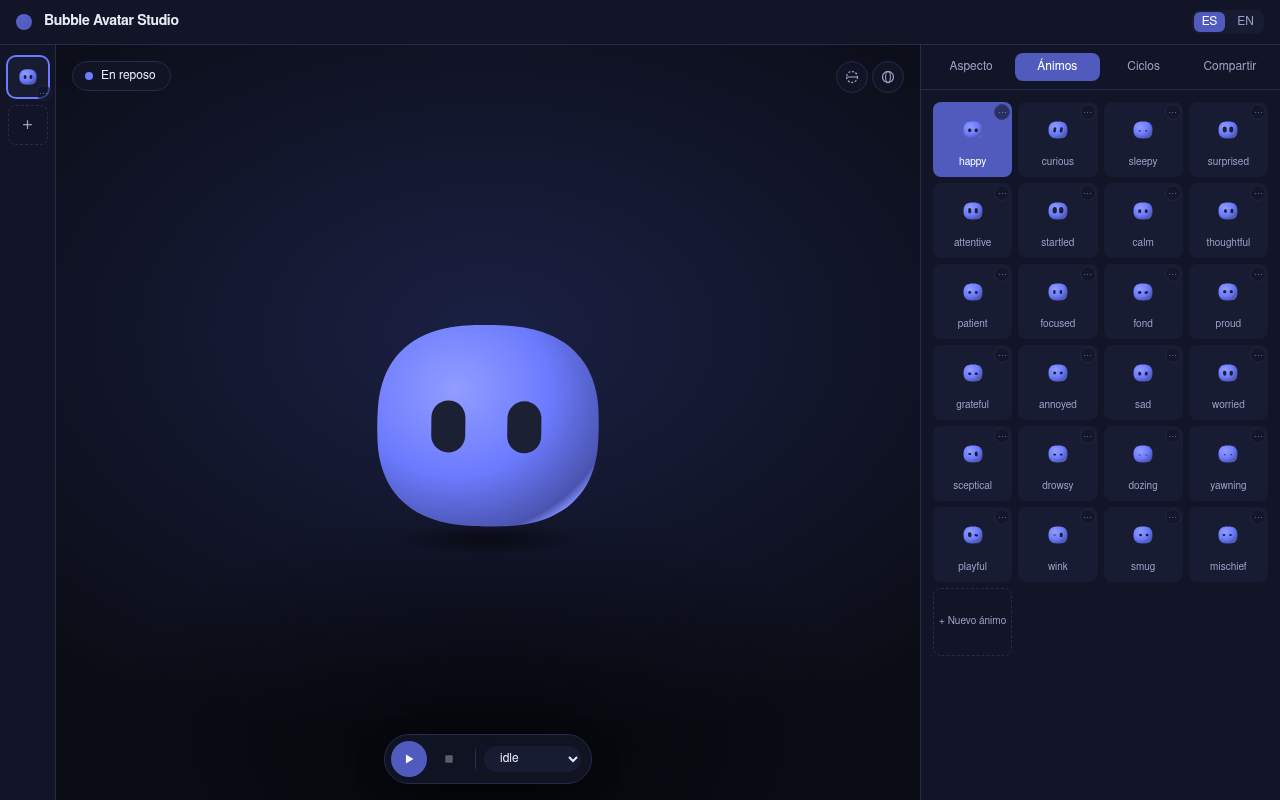
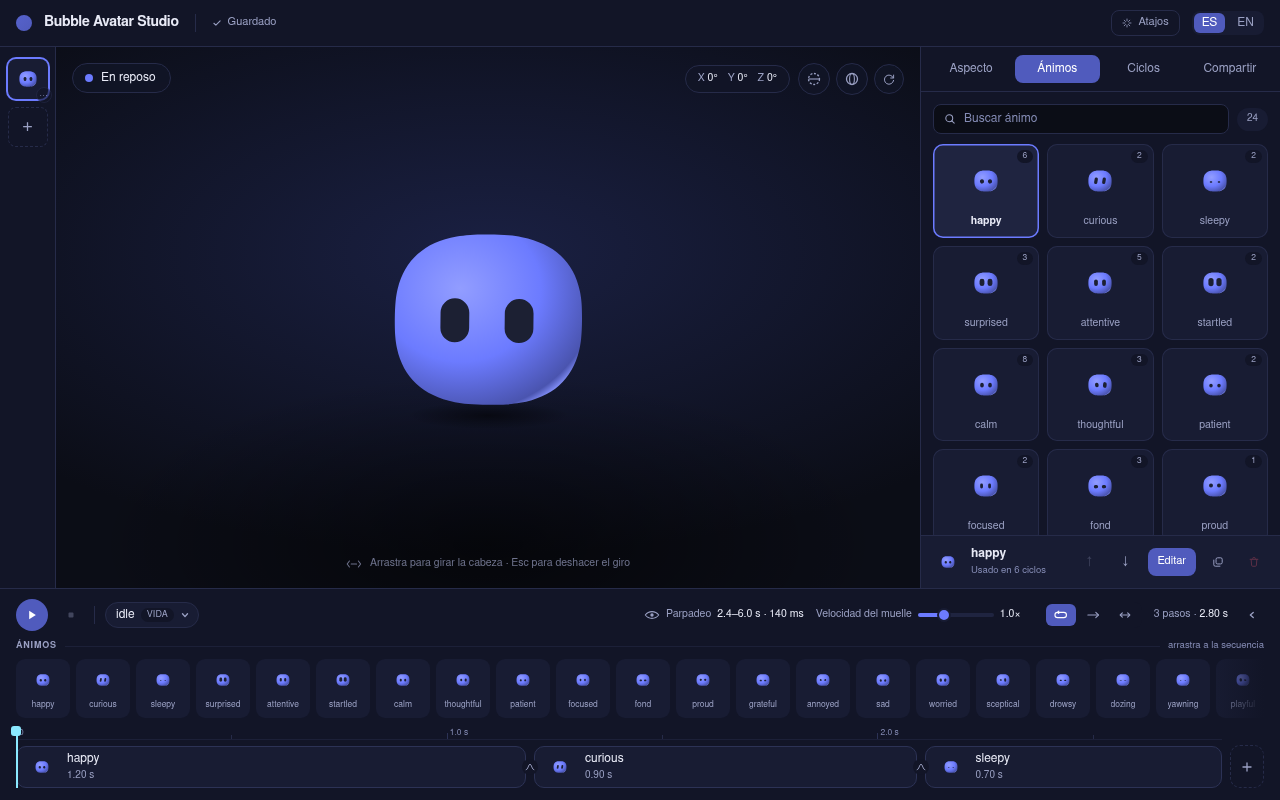
Re-derive what the docs claim, and re-archive the frames
The smoke suite drove the shape the redesign replaced: the dock's play
button, the mood kebab, a reset inside the gizmo pad. It drives the track,
the selection bar and the cluster now, and gained two scenarios jsdom cannot
decide. The playing-loop case asserts the **playhead has moved** — jsdom can
prove the writer runs, not that the engine's frames arrive, and a sabotaged
`publish` is the only thing in this whole pass that only e2e catches. The
new one checks 1024×720, because the track's first row is a lot of controls
in a line and a narrow window is where it breaks first; the archived frame
shows it holding.

CLAUDE.md had two entries that the redesign made wrong — the overlay rule
still named a transport dock, and the transport was described as rendered by
one — and is missing the two mechanics a newcomer would otherwise have to
infer: the clock that keeps the playhead off the React path in both
directions, and the fact that the timeline has two totals which coincide
only outside pingpong.

Numbers re-derived rather than edited: 600 tests / 36 files, 11 e2e
scenarios, 343.42 kB JS / 37.86 kB CSS. Goldens byte-unchanged — confirmed
by diffing src/render/ and src/domain/geometry/ against the branch point,
which is empty.

diff --git a/e2e/smoke.spec.ts b/e2e/smoke.spec.ts
@@ -22,10 +22,15 @@ test("boot: studio shell renders with a starter bubble", async ({ page }) => {
   ).toBeVisible();
   await expect(page.getByLabel("bubble stage")).toBeVisible();
   await expect(page.getByRole("tab", { name: "Aspecto" })).toBeVisible();
-  await expect(page.getByRole("button", { name: "Nueva burbuja" })).toBeVisible();
-  // Transport lives on the stage dock now (docs/05 §1).
-  await expect(page.getByRole("button", { name: "Reproducir" })).toBeVisible();
-  await expect(page.getByRole("status")).toContainText("En reposo");
+  await expect(
+    page.getByRole("button", { name: "Nueva burbuja" }),
+  ).toBeVisible();
+  // Transport lives on the full-width track below all three columns (FR-6.6).
+  const track = page.getByRole("region", { name: "Pista" });
+  await expect(track.getByRole("button", { name: "Reproducir" })).toBeVisible();
+  await expect(page.getByTestId("stage-status")).toContainText("En reposo");
+  // FR-6.7: the sequence is on it, one chip per step.
+  await expect(track.getByTestId("step-chip").first()).toBeVisible();
   await shoot(page, "boot");
 });
 
@@ -39,13 +44,13 @@ test("panels: look, moods, loops and share tabs expose their controls", async ({
   await shoot(page, "panel-look");
 
   await page.getByRole("tab", { name: "Ánimos" }).click();
-  await expect(
-    page.getByRole("button", { name: "Nuevo ánimo" }),
-  ).toBeVisible();
+  await expect(page.getByRole("button", { name: "Nuevo ánimo" })).toBeVisible();
   await shoot(page, "panel-moods");
 
   await page.getByRole("tab", { name: "Ciclos" }).click();
-  await expect(page.getByRole("button", { name: "+ Nuevo ciclo" })).toBeVisible();
+  await expect(
+    page.getByRole("button", { name: "+ Nuevo ciclo" }),
+  ).toBeVisible();
   await shoot(page, "panel-loops");
 
   await page.getByRole("tab", { name: "Compartir" }).click();
@@ -65,10 +70,17 @@ test("playing loop: transport toggles playback and the stage animates", async ({
   await expect(play).toBeVisible();
   await play.click();
   await expect(page.getByRole("button", { name: "Pausar" })).toBeVisible();
-  await expect(page.getByRole("status")).toContainText("Reproduciendo");
+  await expect(page.getByTestId("stage-status")).toContainText("Reproduciendo");
 
   // Let the StageEngine advance a few frames so the capture shows motion.
   await page.waitForTimeout(600);
+
+  // FR-6.7/FR-11.2: the playhead is written straight to the DOM from the
+  // engine's frame loop, so it only moves in a real browser — jsdom can prove
+  // the writer runs, not that the frames arrive.
+  const playhead = page.getByTestId("playhead");
+  await expect(playhead).not.toHaveAttribute("style", /left:\s*0%/);
+  await expect(page.getByTestId("track-elapsed")).not.toContainText("0.00 s");
   await shoot(page, "playing-loop");
 });
 
@@ -88,7 +100,7 @@ test("rail: the context menu carries rename, reorder and delete", async ({
  * `li`s, and would otherwise share every selector here.
  */
 const moodCards = (page: import("@playwright/test").Page) =>
-  page.locator("aside ul li").filter({ has: page.locator("[aria-haspopup]") });
+  page.getByTestId("mood-card");
 
 test("mood editor: opens over the stage, traps focus and cancels on Esc", async ({
   page,
@@ -96,11 +108,13 @@ test("mood editor: opens over the stage, traps focus and cancels on Esc", async 
   await page.goto("/");
   await page.getByRole("tab", { name: "Ánimos" }).click();
 
-  // The card grid renders true mini-previews; the ⋯ opens the card's menu.
-  const firstCard = moodCards(page).first();
-  const name = (await firstCard.getByRole("button").first().innerText()).trim();
-  await firstCard.getByRole("button", { name: `Acciones · ${name}` }).click();
-  await page.getByRole("menuitem", { name: "Editar" }).click();
+  // The card grid renders true mini-previews; the bar at the foot of the
+  // column acts on whichever card is in hand (FR-4.8).
+  await moodCards(page).first().getByRole("button").first().click();
+  await page
+    .getByTestId("mood-selection")
+    .getByRole("button", { name: "Editar" })
+    .click();
 
   const dialog = page.getByRole("dialog");
   await expect(dialog).toBeVisible();
@@ -136,7 +150,8 @@ test("gizmo: the rotation pad poses the head and survives a frame", async ({
   await expect(pad).toBeVisible();
   await shoot(page, "stage-gizmo");
 
-  await pad.getByRole("button", { name: "Restablecer" }).click();
+  // One reset, and it lives beside the toggles rather than inside the pad.
+  await page.getByRole("button", { name: "Restablecer" }).click();
   await expect(pad).toContainText("0°");
 });
 
@@ -195,8 +210,7 @@ test("drag-to-reorder: a mood card dropped on another moves it (FR-1.4)", async 
   await page.goto("/");
   await page.getByRole("tab", { name: "Ánimos" }).click();
 
-  const names = () =>
-    moodCards(page).locator("button:not([aria-haspopup])").allInnerTexts();
+  const names = () => moodCards(page).locator("button").allInnerTexts();
   const before = await names();
   const [first, , third] = before;
   if (!first || !third) throw new Error("fixture needs three moods");
@@ -206,4 +220,39 @@ test("drag-to-reorder: a mood card dropped on another moves it (FR-1.4)", async 
   const after = await names();
   expect(after).not.toEqual(before);
   expect(after.indexOf(first)).toBeGreaterThan(after.indexOf(third));
+});
+
+/**
+ * The track crosses the whole width and its first row is a lot of controls in
+ * a line, so a narrow window is where it would break first. 1024×720 is the
+ * smallest the studio claims to work at (docs/05 §1: a 56px rail and a 360px
+ * inspector leave ~600px of stage).
+ */
+test("narrow window: the shell holds together at 1024×720", async ({
+  page,
+}) => {
+  await page.setViewportSize({ width: 1024, height: 720 });
+  await page.goto("/");
+
+  const overflows = await page.evaluate(() => {
+    const d = document.documentElement;
+    return {
+      page: d.scrollWidth > d.clientWidth + 1,
+      // Row one of the track: play/pause through to the fold toggle.
+      row: (() => {
+        const r = document.querySelector('[aria-label="Pista"] > div');
+        return r ? r.scrollWidth > r.clientWidth + 1 : true;
+      })(),
+      inspector: (() => {
+        const a = document.querySelector("aside");
+        return a ? a.scrollWidth > a.clientWidth + 1 : true;
+      })(),
+    };
+  });
+
+  expect(overflows).toEqual({ page: false, row: false, inspector: false });
+  // And the stage still has room to be a stage.
+  const stage = await page.getByLabel("bubble stage").boundingBox();
+  expect(stage?.width ?? 0).toBeGreaterThan(500);
+  await shoot(page, "narrow-1024");
 });

diff --git a/docs/08-roadmap.md b/docs/08-roadmap.md
@@ -231,6 +231,65 @@ All five items closed, in the order they are listed.
 - **AC:** all gates green (360 tests / 31 files, 10 e2e scenarios); eleven
   screenshots archived under `docs/screenshots/`; audit clean and recorded.
 
+## F6 — The track redesign (done)
+
+Direction A of a two-direction design canvas, built in nine steps, each
+green on `pnpm check` before the next began.
+
+**The thesis, in one move.** Playback was a pill floating over the character.
+It is a permanent full-width band under all three columns now (FR-6.6), and
+it carries the sequence with it (FR-6.7): a step is a chip exactly as wide as
+its hold, the ruler is in seconds, and a transition is edited on the seam it
+happens on. Three things follow from that and are worth stating.
+
+_The playhead is not React state._ FR-11.2 keeps the per-frame path out of the
+tree, so `StageEngine` publishes elapsed time into `app/stage/clock.ts` and
+the track writes `style.left` by hand. `Track.test.tsx` counts renders across
+a published frame; the e2e suite asserts the playhead has actually moved,
+because jsdom can prove the writer runs but not that the frames arrive.
+
+_Two totals, and they differ._ The ruler spans the authored strip; the readout
+states the cycle playback takes, which for a pingpong includes the leg back.
+The playhead walks the strip in both directions rather than the sequence
+growing a second row for the return.
+
+_A scrub rides the same seam backwards._ `clock.seek` moves the loop clock
+from the UI rather than leaking the engine instance up into the shell, and a
+scrub on a stopped stage pauses it there — stopped rewinds on every update,
+so a scrub that left it stopped would do nothing visible.
+
+**What the panels became.** The Loops panel lost half of itself to the track
+and kept the catalogue, the loop's own settings and an editor for the step in
+hand, pinned so it cannot scroll its own subject away. The Moods grid became
+searchable (FR-4.9) and badged with usage (FR-4.8), and its card actions left
+the kebab for a bar that can say _why_ a delete is unavailable — every one of
+the 24 starter moods is in a starter loop, so the old path was offer,
+confirm, refuse. The mood editor's fourteen stacked sliders became two XY
+pads: an offset is two numbers that mean one place. Look laid its fields two
+to a row. Share draws the export frame on the stage, where framing is decided,
+and states what the package will weigh before it is built (FR-10.6).
+
+**One thing the canvas drew that could not ship as drawn.** Its tertiary text
+colour, `#6f759b`, measures 4.04:1 on `panel` — under the 4.5:1 docs/05 §3
+requires. `--color-ink-mute` is the lifted value that clears the bar on all
+four surfaces, and `theme.test.ts` now also records which of the new tints
+sit under the 3:1 non-text bar deliberately, so the choice does not read as
+an oversight later.
+
+**Two habits that paid.** Every regression test was checked against a
+sabotaged build before being trusted — which is how the drag scale, the
+pad's Y direction, the loop-id guard on the playhead and the pre-empted
+delete all earned their tests. And Testing Library's drag helpers turned out
+not to carry `clientX` into React's synthetic event, silently landing every
+drop at the end of the sequence; the drag tests build their events by hand,
+and the real path was confirmed in Chrome with a genuine `DragEvent`.
+
+- **AC:** all gates green — **600 tests / 36 files**, **11 e2e scenarios**
+  (the eleventh is a 1024×720 check that the track's first row and the
+  inspector do not clip); goldens byte-unchanged, verified by diffing
+  `src/render/` and `src/domain/geometry/` against the branch point; every
+  screen read against its artboard in a real browser at 1440px.
+
 ## Beyond the roadmap — the 3D question
 
 `docs/research/3d-bubble-exploration.md` is an investigation, not a committed

diff --git a/CLAUDE.md b/CLAUDE.md
@@ -110,11 +110,21 @@ mood a loop still references, FR-5.6). Mutations never throw.
 **The stage bypasses React per frame.** `StageEngine` owns the rAF loop and
 writes SVG straight into its host element via `innerHTML`; React never
 re-renders per frame (FR-11.2). Consequences: any stage overlay (status pill,
-transport dock, gizmo pad, guide toggle) must be a _sibling_ of the engine's
-host element, never a child — a child is wiped on the next frame, and
-`Stage.test.tsx` asserts that directly. The engine also skips the DOM write when
-the serialized SVG is byte-identical to the last frame, which is what makes a
-paused stage cheap.
+orientation readout, gizmo pad, guide toggle, the Share panel's export frame)
+must be a _sibling_ of the engine's host element, never a child — a child is
+wiped on the next frame, and `Stage.test.tsx` asserts that directly. The engine
+also skips the DOM write when the serialized SVG is byte-identical to the last
+frame, which is what makes a paused stage cheap.
+
+**The same rule reaches the track, through a clock.** The playhead moves every
+frame and must not re-render the tree either, so the engine publishes
+`{ loopId, loopMs }` into `app/stage/clock.ts` and `Track` subscribes and
+writes `style.left` and `textContent` by hand. Nothing in `clock.ts` touches
+React or the DOM, which is what makes the seam testable. It carries traffic
+both ways: `seek` is a scrub moving the loop clock from the UI, so the shell
+never has to hold the engine instance. A subscriber that throws is swallowed —
+`publish` runs inside `requestAnimationFrame`, and an exception there would
+freeze the character because a readout failed to format a number.
 
 **The starter library reaches new documents only.** `starterKit()` runs inside
 `createDefaultDocument()`, so a document already in localStorage keeps whatever
@@ -159,9 +169,20 @@ drawn _before_ the head group — inside it, it would inherit the roll and the
 bob, and a shadow that tilts with the character is not a shadow.
 
 **Three-state transport.** `playing | paused | stopped` (FR-6.2), owned by
-`StudioView` and rendered by the stage dock. `stopped` rewinds the loop clock
-but keeps ambient breathing; `paused` freezes everything. Picking a mood in the
-Moods panel takes over the live state and pauses playback (FR-6.1/FR-4.4).
+`StudioView` and rendered by the track (FR-6.6 — it was a dock floating on the
+stage until the track redesign). `stopped` rewinds the loop clock but keeps
+ambient breathing; `paused` freezes everything. Picking a mood in the Moods
+panel takes over the live state and pauses playback (FR-6.1/FR-4.4).
+
+**The timeline has two totals, and they are not the same number.** The strip
+the chips are laid on is the _authored_ steps end to end (`stepBounds`); the
+cycle a loop plays is what `summarizeLoop().totalMs` reports, which for a
+pingpong includes the mirrored leg back. The ruler spans the strip, the
+readout states the cycle, and `playheadAt` maps elapsed time onto the strip so
+the return leg walks back over the chips it already crossed. Both come from
+`domain/playback/summary.ts`, which shares its step expansion with
+`LoopPlayer` — which is what stops the drawn position and the played position
+from ever disagreeing.
 
 ## Conventions
 

diff --git a/docs/05-ui-design.md b/docs/05-ui-design.md
@@ -32,6 +32,14 @@
 > against this document is F5 work, against fresh `pnpm e2e` screenshots.
 > Where the built shape differs from the sketch below, the **[built]**
 > paragraph is the description and the bullets are the original target.
+>
+> **The track redesign (F6) rewrote most of §1 and §2.** Playback left the
+> stage for a full-width track that carries the sequence with it, and the
+> panels were rebuilt around what that took off them. Where a bullet list
+> below still describes the older shape it is marked as the original target
+> and the prose above it is what runs. The one item that could _not_ ship as
+> the design canvas drew it is recorded in §4: its tertiary text colour did
+> not clear the contrast bar §3 sets, and the token is the lifted value.
 
 ## 1. Layout
 
@@ -95,6 +103,7 @@
   bottom-centre, saying the stage can be dragged — which retires itself the
   first time the head is turned, because an affordance hint that outlives the
   affordance is clutter.
+
 - **Header:** the app's name, whether the document is saved (FR-9.6) and a
   shortcuts sheet (FR-9.7). Autosave is silent by design, and silence is
   indistinguishable from a storage that refused the write, so the header
@@ -182,7 +191,7 @@ badged with how many loops play it (FR-4.8). Click previews on the stage
 (FR-4.4); double-click opens the editor.
 
 **Card actions live on a bar at the foot of the column, not on a kebab.** One
-of them has to say *why* it is unavailable: every one of the 24 starter moods
+of them has to say _why_ it is unavailable: every one of the 24 starter moods
 is in at least one starter loop, so deleting any of them used to be offered,
 confirmed, and only then refused by the reducer with E_REF. The bar disables
 the control and names the reason (FR-4.8); FR-5.6 is unchanged and still the
@@ -297,7 +306,6 @@ definition that is weighed, not the ZIP: the README and the example are fixed
 overhead that no choice in this panel moves.
 
 Downloads are rows that say what each artifact is and what is inside it.
-
 
 **[built]** all of the above. Resolution choice; transparent, solid, linear and
 radial backgrounds with configurable stops; a live preview of the framed result

diff --git a/docs/07-testing-strategy.md b/docs/07-testing-strategy.md
@@ -69,11 +69,17 @@ transition, a non-integer seed), which one file per code cannot express.
 
 ## 4b. Current state (re-derive; do not trust)
 
-As of schema v5: **32 Vitest files, 466 tests**, plus **1
-Playwright spec** of **10 scenarios** — boot, panels, a playing loop and the
+As of the track redesign (F6): **36 Vitest files, 600 tests**, plus **1
+Playwright spec** of **11 scenarios** — boot, panels, a playing loop and the
 rail menu, joined by the mood editor's focus behaviour, the gizmo, the
-wireframe, the Share preview, drag-to-scrub and drag-to-reorder. Production
-bundle 303.16 kB JS / 30.05 kB CSS (92.29 / 6.29 gzipped).
+wireframe, the Share preview, drag-to-scrub, drag-to-reorder, and a 1024×720
+check that the track's first row and the inspector do not clip. Production
+bundle 343.42 kB JS / 37.86 kB CSS (102.86 / 7.47 gzipped).
+
+Two of those scenarios exist because jsdom cannot decide them. The playing
+loop asserts the **playhead has moved**: jsdom can prove the writer runs, not
+that the engine's frames arrive. And the narrow-window case is a layout
+question, which jsdom has no answer to at all.
 
 Ten tests over the 456 that preceded them, in two batches.
 
